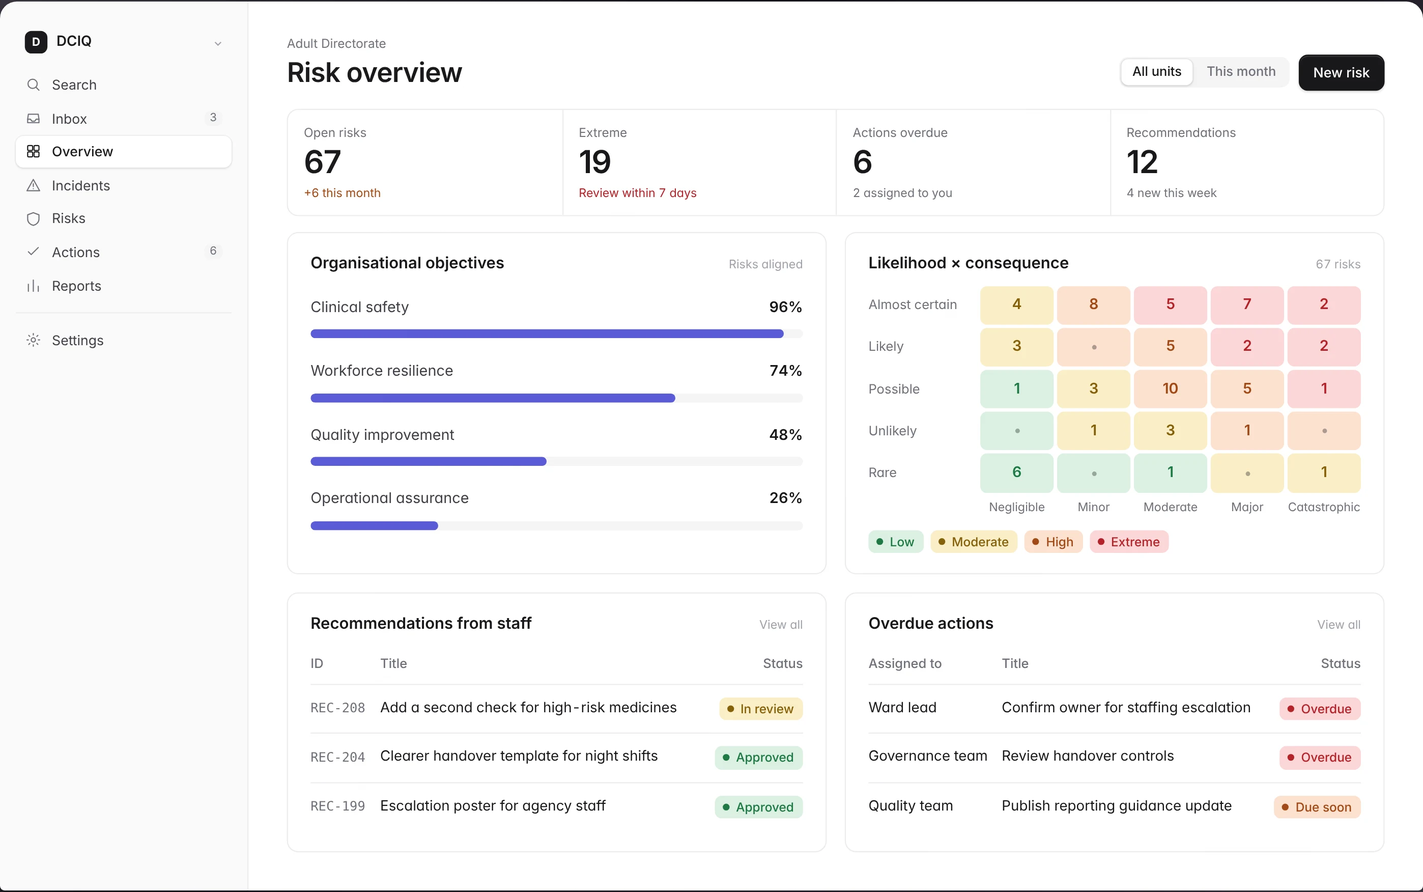
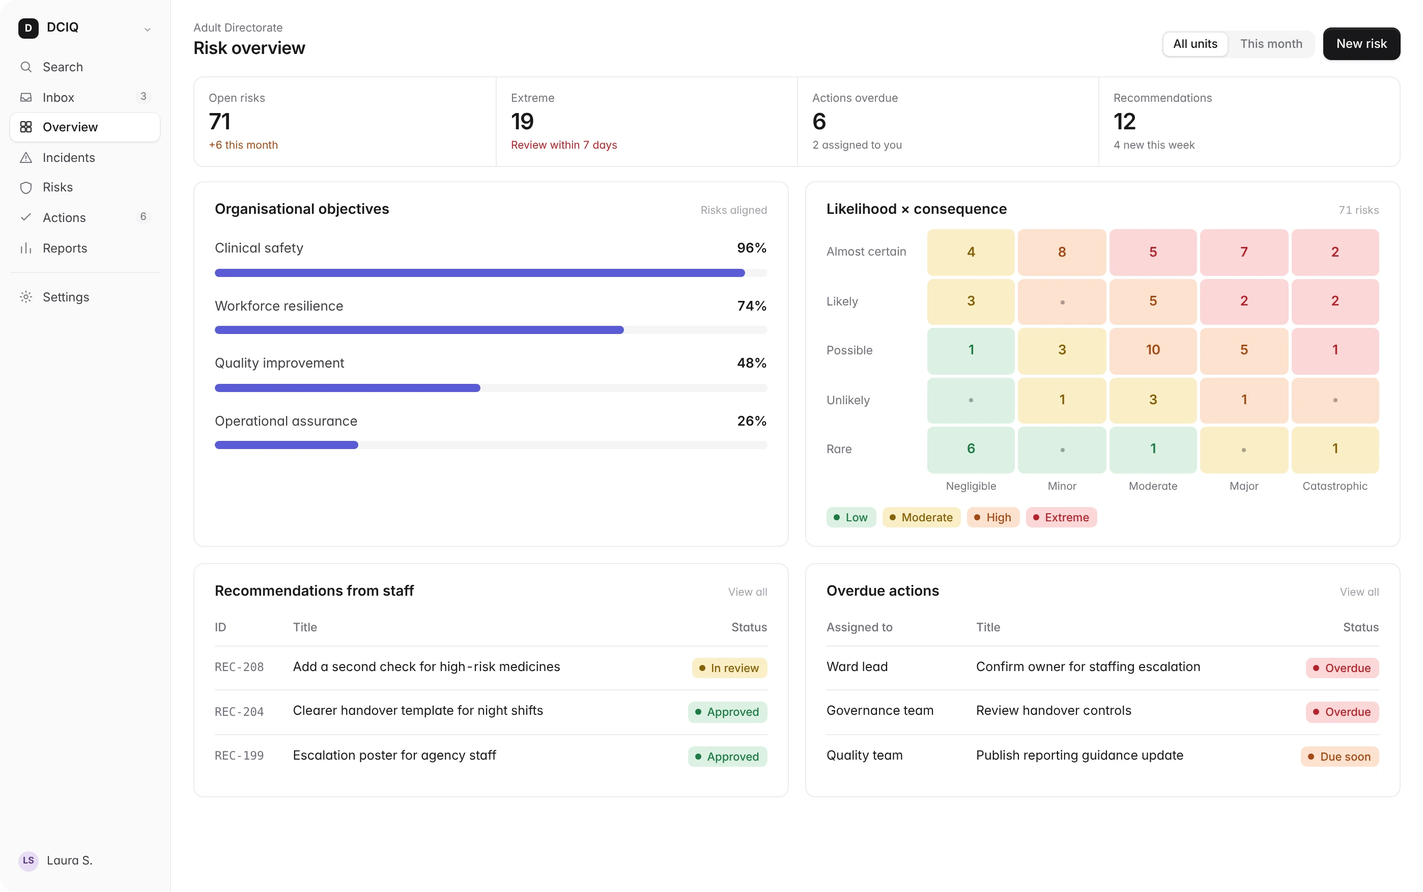
RLDatix: one data set for every risk overview (71 risks, 19 extreme)
Claude-Session: https://claude.ai/code/session_019ui8k7Dsyc7QBDNyg3Qkj1

diff --git a/case-study-rldatix.html b/case-study-rldatix.html
@@ -293,13 +293,13 @@
 <link rel="shortcut icon" href="favicon.ico?v=flower-2">
 <link rel="icon" type="image/svg+xml" href="favicon.svg?v=flower-2">
 
-<link rel="stylesheet" href="headings.css?v=4"><link rel="stylesheet" href="case-layout.css?v=2"><link rel="stylesheet" href="rldatix-studio.css?v=7"><link rel="stylesheet" href="rldatix-system.css?v=18"><link rel="stylesheet" href="case-format.css?v=4"><script src="i18n.js?v=3"></script></head><body class="flex-case" id="top"><a class="skip-link" href="#impact">Skip to case study</a><div class="cursor" aria-hidden="true"></div><div class="cursor-dot" aria-hidden="true"></div><div class="progress" aria-hidden="true"><div class="progress-bar" id="progressBar"></div></div>
+<link rel="stylesheet" href="headings.css?v=4"><link rel="stylesheet" href="case-layout.css?v=2"><link rel="stylesheet" href="rldatix-studio.css?v=7"><link rel="stylesheet" href="rldatix-system.css?v=19"><link rel="stylesheet" href="case-format.css?v=4"><script src="i18n.js?v=3"></script></head><body class="flex-case" id="top"><a class="skip-link" href="#impact">Skip to case study</a><div class="cursor" aria-hidden="true"></div><div class="cursor-dot" aria-hidden="true"></div><div class="progress" aria-hidden="true"><div class="progress-bar" id="progressBar"></div></div>
 <div class="page case-page"><nav class="nav" aria-label="Main navigation"><a class="nav-back" href="index.html"><span aria-hidden="true">←</span> Go back</a><ul class="nav-links"><li><a href="index.html#contact">Contact</a></li></ul></nav>
 
 <main>
 <section class="fx-hero fx-dark rld-hero" id="overview" aria-labelledby="rld-title">
 <div class="fx-hero-copy"><span class="mono-label">RLDatix · 2020–2021</span><h1 id="rld-title">From a patchwork to <em>one product.</em></h1><p>During COVID-19, I led research and design to turn a patchwork of hospital risk tools into one system.</p></div>
-<div class="rld-hero-windows" aria-hidden="true"><img class="rld-win" src="assets/rldatix/risk-overview.webp" alt="" width="2796" height="1752"></div>
+<div class="rld-hero-windows" aria-hidden="true"><img class="rld-win" src="assets/rldatix/risk-overview.webp?v=2" alt="" width="2796" height="1752"></div>
 </section>
 
 <section class="fx-facts" aria-label="Project summary"><dl>
@@ -319,10 +319,10 @@
 <section class="cx-full rld-compare-section" id="v3-section-0" aria-labelledby="compare-title"><span class="mono-label fx-kicker">Before and after</span><h2 id="compare-title">Same platform. One way of working.</h2>
 <figure class="rld-laptop rld-compare-laptop rs-surface rs-linen" data-comparison><div class="rld-laptop-hardware"><div class="rld-laptop-shell"><div class="rld-compare-scroll" tabindex="0" role="region" aria-label="Explore a legacy risk register and my redesigned risk dashboard. Scroll vertically to view both screens."><div class="rld-compare" data-compare-screen style="--split:50%"><div class="rs hd-wrap" data-no-i18n aria-hidden="true"><div class="hd rs-app"><aside class="rs-side" data-rs-side="Overview"></aside><div class="rs-main">
 <div class="rs-main-top"><div><span class="rs-crumb">Adult Directorate</span><h4>Risk overview</h4></div><div class="rs-top-actions"><span class="rs-seg"><b>All units</b><span>This month</span></span><span class="rs-btn">New risk</span></div></div>
-<div class="rs-kpis"><div><small>Open risks</small><strong>67</strong><em class="up">+6 this month</em></div><div><small>Extreme</small><strong>19</strong><em class="down">Review within 7 days</em></div><div><small>Actions overdue</small><strong>6</strong><em>2 assigned to you</em></div><div><small>Recommendations</small><strong>12</strong><em>4 new this week</em></div></div>
+<div class="rs-kpis"><div><small>Open risks</small><strong>71</strong><em class="up">+6 this month</em></div><div><small>Extreme</small><strong>19</strong><em class="down">Review within 7 days</em></div><div><small>Actions overdue</small><strong>6</strong><em>2 assigned to you</em></div><div><small>Recommendations</small><strong>12</strong><em>4 new this week</em></div></div>
 <div class="hd-grid">
 <section class="rs-pane"><header><strong>Organisational objectives</strong><small>Risks aligned</small></header><div class="hd-obj"><div><span>Clinical safety</span><b>96%</b></div><span class="rs-bar"><i style="width:96%"></i></span></div><div class="hd-obj"><div><span>Workforce resilience</span><b>74%</b></div><span class="rs-bar"><i style="width:74%"></i></span></div><div class="hd-obj"><div><span>Quality improvement</span><b>48%</b></div><span class="rs-bar"><i style="width:48%"></i></span></div><div class="hd-obj"><div><span>Operational assurance</span><b>26%</b></div><span class="rs-bar"><i style="width:26%"></i></span></div></section>
-<section class="rs-pane"><header><strong>Likelihood × consequence</strong><small>67 risks</small></header><div class="rs-matrix"><span class="ax">Almost certain</span><span class="rs-cell" data-band="mod" data-count="4">4</span><span class="rs-cell" data-band="high" data-count="8">8</span><span class="rs-cell" data-band="ext" data-count="5">5</span><span class="rs-cell" data-band="ext" data-count="7">7</span><span class="rs-cell" data-band="ext" data-count="2">2</span><span class="ax">Likely</span><span class="rs-cell" data-band="mod" data-count="3">3</span><span class="rs-cell" data-band="high" data-count="0">0</span><span class="rs-cell" data-band="high" data-count="5">5</span><span class="rs-cell" data-band="ext" data-count="2">2</span><span class="rs-cell" data-band="ext" data-count="2">2</span><span class="ax">Possible</span><span class="rs-cell" data-band="low" data-count="1">1</span><span class="rs-cell" data-band="mod" data-count="3">3</span><span class="rs-cell" data-band="high" data-count="10">10</span><span class="rs-cell" data-band="high" data-count="5">5</span><span class="rs-cell" data-band="ext" data-count="1">1</span><span class="ax">Unlikely</span><span class="rs-cell" data-band="low" data-count="0">0</span><span class="rs-cell" data-band="mod" data-count="1">1</span><span class="rs-cell" data-band="mod" data-count="3">3</span><span class="rs-cell" data-band="high" data-count="1">1</span><span class="rs-cell" data-band="high" data-count="0">0</span><span class="ax">Rare</span><span class="rs-cell" data-band="low" data-count="6">6</span><span class="rs-cell" data-band="low" data-count="0">0</span><span class="rs-cell" data-band="low" data-count="1">1</span><span class="rs-cell" data-band="mod" data-count="0">0</span><span class="rs-cell" data-band="mod" data-count="1">1</span><span></span><span class="ax col">Negligible</span><span class="ax col">Minor</span><span class="ax col">Moderate</span><span class="ax col">Major</span><span class="ax col">Catastrophic</span></div><div class="hd-legend"><span class="rs-chip low">Low</span><span class="rs-chip mod">Moderate</span><span class="rs-chip high">High</span><span class="rs-chip ext">Extreme</span></div></section>
+<section class="rs-pane"><header><strong>Likelihood × consequence</strong><small>71 risks</small></header><div class="rs-matrix"><span class="ax">Almost certain</span><span class="rs-cell" data-band="mod" data-count="4">4</span><span class="rs-cell" data-band="high" data-count="8">8</span><span class="rs-cell" data-band="ext" data-count="5">5</span><span class="rs-cell" data-band="ext" data-count="7">7</span><span class="rs-cell" data-band="ext" data-count="2">2</span><span class="ax">Likely</span><span class="rs-cell" data-band="mod" data-count="3">3</span><span class="rs-cell" data-band="high" data-count="0">0</span><span class="rs-cell" data-band="high" data-count="5">5</span><span class="rs-cell" data-band="ext" data-count="2">2</span><span class="rs-cell" data-band="ext" data-count="2">2</span><span class="ax">Possible</span><span class="rs-cell" data-band="low" data-count="1">1</span><span class="rs-cell" data-band="mod" data-count="3">3</span><span class="rs-cell" data-band="high" data-count="10">10</span><span class="rs-cell" data-band="high" data-count="5">5</span><span class="rs-cell" data-band="ext" data-count="1">1</span><span class="ax">Unlikely</span><span class="rs-cell" data-band="low" data-count="0">0</span><span class="rs-cell" data-band="mod" data-count="1">1</span><span class="rs-cell" data-band="mod" data-count="3">3</span><span class="rs-cell" data-band="high" data-count="1">1</span><span class="rs-cell" data-band="high" data-count="0">0</span><span class="ax">Rare</span><span class="rs-cell" data-band="low" data-count="6">6</span><span class="rs-cell" data-band="low" data-count="0">0</span><span class="rs-cell" data-band="low" data-count="1">1</span><span class="rs-cell" data-band="mod" data-count="0">0</span><span class="rs-cell" data-band="mod" data-count="1">1</span><span></span><span class="ax col">Negligible</span><span class="ax col">Minor</span><span class="ax col">Moderate</span><span class="ax col">Major</span><span class="ax col">Catastrophic</span></div><div class="hd-legend"><span class="rs-chip low">Low</span><span class="rs-chip mod">Moderate</span><span class="rs-chip high">High</span><span class="rs-chip ext">Extreme</span></div></section>
 <section class="rs-pane"><header><strong>Recommendations from staff</strong><small>View all</small></header><table class="hd-table"><thead><tr><th>ID</th><th>Title</th><th>Status</th></tr></thead><tbody><tr><td class=mono>REC-208</td><td>Add a second check for high-risk medicines</td><td><span class="rs-chip mod">In review</span></td></tr><tr><td class=mono>REC-204</td><td>Clearer handover template for night shifts</td><td><span class="rs-chip low">Approved</span></td></tr><tr><td class=mono>REC-199</td><td>Escalation poster for agency staff</td><td><span class="rs-chip low">Approved</span></td></tr></tbody></table></section>
 <section class="rs-pane"><header><strong>Overdue actions</strong><small>View all</small></header><table class="hd-table"><thead><tr><th>Assigned to</th><th>Title</th><th>Status</th></tr></thead><tbody><tr><td>Ward lead</td><td>Confirm owner for staffing escalation</td><td><span class="rs-chip ext">Overdue</span></td></tr><tr><td>Governance team</td><td>Review handover controls</td><td><span class="rs-chip ext">Overdue</span></td></tr><tr><td>Quality team</td><td>Publish reporting guidance update</td><td><span class="rs-chip high">Due soon</span></td></tr></tbody></table></section>
 </div></div></div></div><div class="rld-compare-old"><img class="rld-compare-image" src="assets/rldatix/legacy-laptop-outlined.svg" alt="Legacy DCIQ risk register shown for context" width="614" height="518" loading="lazy" draggable="false"></div><span class="rld-compare-divider" aria-hidden="true"><span>↔</span></span><input class="rld-compare-range" data-compare-range type="range" min="0" max="100" value="50" aria-label="Explore the legacy risk register and the redesigned dashboard" aria-valuetext="Showing both screens"></div></div></div><div class="rld-laptop-hinge" aria-hidden="true"></div><div class="rld-laptop-deck" aria-hidden="true"><div class="rld-laptop-deck-plane"><div class="rld-speaker rld-speaker-left"></div><div class="rld-keyboard"><div class="rld-key-row"><span class="rld-key is-wide"></span><span class="rld-key"></span><span class="rld-key"></span><span class="rld-key"></span><span class="rld-key"></span><span class="rld-key"></span><span class="rld-key"></span><span class="rld-key"></span><span class="rld-key"></span><span class="rld-key"></span><span class="rld-key"></span><span class="rld-key"></span><span class="rld-key"></span><span class="rld-key is-wide"></span></div><div class="rld-key-row"><span class="rld-key is-wide"></span><span class="rld-key"></span><span class="rld-key"></span><span class="rld-key"></span><span class="rld-key"></span><span class="rld-key"></span><span class="rld-key"></span><span class="rld-key"></span><span class="rld-key"></span><span class="rld-key"></span><span class="rld-key"></span><span class="rld-key"></span><span class="rld-key"></span><span class="rld-key is-wide"></span></div><div class="rld-key-row"><span class="rld-key is-wide"></span><span class="rld-key"></span><span class="rld-key"></span><span class="rld-key"></span><span class="rld-key"></span><span class="rld-key"></span><span class="rld-key"></span><span class="rld-key"></span><span class="rld-key"></span><span class="rld-key"></span><span class="rld-key"></span><span class="rld-key"></span><span class="rld-key"></span><span class="rld-key is-wide"></span></div><div class="rld-key-row"><span class="rld-key is-wide"></span><span class="rld-key"></span><span class="rld-key"></span><span class="rld-key"></span><span class="rld-key"></span><span class="rld-key"></span><span class="rld-key"></span><span class="rld-key"></span><span class="rld-key"></span><span class="rld-key"></span><span class="rld-key"></span><span class="rld-key"></span><span class="rld-key"></span><span class="rld-key is-wide"></span></div><div class="rld-key-row"><span class="rld-key is-wide"></span><span class="rld-key"></span><span class="rld-key"></span><span class="rld-key is-space"></span><span class="rld-key"></span><span class="rld-key"></span><span class="rld-key"></span><span class="rld-key is-wide"></span></div></div><div class="rld-speaker rld-speaker-right"></div><div class="rld-trackpad"></div></div></div><div class="rld-laptop-base" aria-hidden="true"></div></div>
@@ -418,7 +418,7 @@
 <p class="st-result"><b>What changed</b>Saving behaved the same on every screen, so staff knew when their work was safe.</p>
 </section>
 <section class="cx-full rld-workflow-story" id="v3-section-2"><span class="mono-label">02 / OVERVIEWS</span><h2>Help people see what needs attention</h2>
-<p>Teams needed a quick view of what needed attention, and the detail behind it. So we paired a risk overview with detailed lists.</p><figure class="ov-stage rs-surface rs-sage"><div class="ov-frame"><img src="assets/rldatix/risk-overview.webp" alt="Redesigned risk overview: key numbers, objectives, a likelihood by consequence matrix, staff recommendations and overdue actions" width="2796" height="1752" loading="lazy"><span class="ov-pin" style="left:60.4%;top:27.6%">01</span><span class="ov-pin" style="left:60.4%;top:67.8%">02</span><span class="ov-pin" style="left:21%;top:67.8%">03</span></div><figcaption>The redesigned risk overview, recreated for this case study with sample data. Numbers match the three ideas below.</figcaption></figure>
+<p>Teams needed a quick view of what needed attention, and the detail behind it. So we paired a risk overview with detailed lists.</p><figure class="ov-stage rs-surface rs-sage"><div class="ov-frame"><img src="assets/rldatix/risk-overview.webp?v=2" alt="Redesigned risk overview: key numbers, objectives, a likelihood by consequence matrix, staff recommendations and overdue actions" width="2796" height="1752" loading="lazy"><span class="ov-pin" style="left:56.7%;top:20.6%">01</span><span class="ov-pin" style="left:56.7%;top:63.3%">02</span><span class="ov-pin" style="left:13.6%;top:63.3%">03</span></div><figcaption>The redesigned risk overview, recreated for this case study with sample data. Numbers match the three ideas below.</figcaption></figure>
 <div class="rld-decision-grid"><article><span>01</span><h3>Start with the overview</h3><p>The matrix groups risks by likelihood and impact, so teams can scan the overall picture.</p></article><article><span>02</span><h3>Show the next action</h3><p>Owners, status and overdue actions show who needs to follow up.</p></article><article><span>03</span><h3>Keep the detail</h3><p>Detailed tables remain available for reviewing each risk and its next action.</p></article></div>
 
 
@@ -470,10 +470,10 @@
 <div class="rs-main">
 <div class="rs-main-top"><div><span class="rs-crumb">Adult Directorate</span><h4>Risk overview</h4></div><div class="rs-top-actions"><span class="rs-seg"><b>All units</b><span>This month</span></span><button type="button" class="rs-btn">New risk</button></div></div>
 <div class="rs-kpis">
-<div><small>Open risks</small><strong>18</strong><em class="up">+3 this month</em></div>
-<div><small>Extreme</small><strong>4</strong><em class="down">Review within 7 days</em></div>
+<div><small>Open risks</small><strong>71</strong><em class="up">+6 this month</em></div>
+<div><small>Extreme</small><strong>19</strong><em class="down">Review within 7 days</em></div>
 <div><small>Actions overdue</small><strong>6</strong><em>2 assigned to you</em></div>
-<div><small>Controls in place</small><strong>71%</strong><span class="rs-bar"><i style="width:71%"></i></span></div>
+<div><small>Recommendations</small><strong>12</strong><em>4 new this week</em></div>
 </div>
 <div class="rs-overview-grid">
 <section class="rs-pane">
@@ -611,7 +611,7 @@
 </ol>
 <p class="fx-line">What I learned: one product isn’t a fresh coat of paint. It’s components that behave the same everywhere, setup that works for each hospital, and words clinicians already use.</p></section>
 
-</main><dialog class="rld-report-dialog" id="rld-report-dialog" aria-labelledby="rld-report-dialog-title"><div class="rld-report-dialog-inner"><button class="rld-report-dialog-close" type="button" aria-label="Close report form">×</button><span class="mono-label">NEW INCIDENT REPORT</span><h2 id="rld-report-dialog-title">Start a report</h2><p class="rld-report-dialog-intro">Add a few details so the right team can follow up.</p><div class="rld-dialog-category"><span class="rld-dialog-category-icon" id="rld-dialog-category-icon" aria-hidden="true"></span><div><small>EVENT TYPE</small><strong id="rld-dialog-category">Incident</strong></div></div><label class="rld-dialog-field">What happened?<textarea rows="3" placeholder="Briefly describe the event"></textarea></label><label class="rld-dialog-field">Where did it happen?<select><option value="">Choose a location</option><option>Ward 3</option><option>Emergency department</option><option>Other</option></select></label><div class="rld-dialog-actions"><button class="rld-dialog-cancel" type="button">Cancel</button><button class="rld-dialog-continue" type="button">Continue</button></div></div></dialog><footer class="footer" id="contact"><div class="footer-inner"><h2 class="footer-title">Let’s make products feel clear and useful.</h2><div class="footer-actions"><a class="pill-button" href="mailto:lrsmpdr@gmail.com" target="_blank" rel="noopener noreferrer">Email me ↗</a><a href="https://www.linkedin.com/in/laura-sampedro/" target="_blank" rel="noopener noreferrer">LinkedIn ↗</a></div><div class="footer-row"><span class="mono-label">© 2026 Laura Sampedro de la Rosa</span><a class="mono-label" href="#top">Back to top ↑</a></div></div></footer></div><script>if(I18n.lang==="es")document.write('<script src="i18n-es.js?v=29"><\/script>')</script><script>I18n.run()</script><script src="script.js"></script><script src="case-study.js"></script><dialog class="fv-lightbox" aria-label="Product screen detail"><button class="fv-close" type="button" aria-label="Close enlarged screen">Close ×</button><img alt=""></dialog><script src="case-media.js?v=2"></script><script src="case-experience.js?v=1"></script><script src="rldatix-laptop.js?v=3"></script><script src="rldatix-showcase.js?v=1"></script><script src="rldatix-studio.js?v=5"></script><script src="rldatix-experts.js?v=1"></script><script>
+</main><dialog class="rld-report-dialog" id="rld-report-dialog" aria-labelledby="rld-report-dialog-title"><div class="rld-report-dialog-inner"><button class="rld-report-dialog-close" type="button" aria-label="Close report form">×</button><span class="mono-label">NEW INCIDENT REPORT</span><h2 id="rld-report-dialog-title">Start a report</h2><p class="rld-report-dialog-intro">Add a few details so the right team can follow up.</p><div class="rld-dialog-category"><span class="rld-dialog-category-icon" id="rld-dialog-category-icon" aria-hidden="true"></span><div><small>EVENT TYPE</small><strong id="rld-dialog-category">Incident</strong></div></div><label class="rld-dialog-field">What happened?<textarea rows="3" placeholder="Briefly describe the event"></textarea></label><label class="rld-dialog-field">Where did it happen?<select><option value="">Choose a location</option><option>Ward 3</option><option>Emergency department</option><option>Other</option></select></label><div class="rld-dialog-actions"><button class="rld-dialog-cancel" type="button">Cancel</button><button class="rld-dialog-continue" type="button">Continue</button></div></div></dialog><footer class="footer" id="contact"><div class="footer-inner"><h2 class="footer-title">Let’s make products feel clear and useful.</h2><div class="footer-actions"><a class="pill-button" href="mailto:lrsmpdr@gmail.com" target="_blank" rel="noopener noreferrer">Email me ↗</a><a href="https://www.linkedin.com/in/laura-sampedro/" target="_blank" rel="noopener noreferrer">LinkedIn ↗</a></div><div class="footer-row"><span class="mono-label">© 2026 Laura Sampedro de la Rosa</span><a class="mono-label" href="#top">Back to top ↑</a></div></div></footer></div><script>if(I18n.lang==="es")document.write('<script src="i18n-es.js?v=29"><\/script>')</script><script>I18n.run()</script><script src="script.js"></script><script src="case-study.js"></script><dialog class="fv-lightbox" aria-label="Product screen detail"><button class="fv-close" type="button" aria-label="Close enlarged screen">Close ×</button><img alt=""></dialog><script src="case-media.js?v=2"></script><script src="case-experience.js?v=1"></script><script src="rldatix-laptop.js?v=3"></script><script src="rldatix-showcase.js?v=1"></script><script src="rldatix-studio.js?v=6"></script><script src="rldatix-experts.js?v=1"></script><script>
 (()=>{const dialog=document.getElementById("rld-report-dialog");if(!dialog)return;const category=document.getElementById("rld-dialog-category");const categoryIcon=document.getElementById("rld-dialog-category-icon");const detail=document.getElementById("rld-report-details");let selected="Incident";
 document.querySelectorAll(".rld-icon-launch").forEach(button=>button.addEventListener("click",()=>{selected=button.dataset.reportCategory||"Incident";category.textContent=selected;const icon=button.querySelector(".rld-icon-launch-art svg");if(icon&&categoryIcon)categoryIcon.replaceChildren(icon.cloneNode(true));dialog.showModal()}));
 dialog.querySelector(".rld-report-dialog-close").addEventListener("click",()=>dialog.close());

diff --git a/rldatix-studio.js b/rldatix-studio.js
@@ -36,17 +36,32 @@
   const BAND_NAME = { low: 'Low', mod: 'Moderate', high: 'High', ext: 'Extreme' };
 
   /* ---------- 1. Matrix ---------- */
-  const RISKS = [
-    ['Staffing escalation out of hours', 'Ward lead', 5, 4], ['Sepsis screening missed', 'Critical care', 4, 5],
-    ['Medication dose transcription', 'Pharmacy', 4, 4], ['Clinical handover between shifts', 'Governance team', 4, 3],
-    ['Delayed discharge letters', 'Quality team', 4, 2], ['Falls on Ward 3 at night', 'Ward lead', 3, 4],
-    ['PPE supply for isolation bays', 'Estates', 3, 4], ['Equipment checks overdue', 'Estates', 3, 3],
-    ['Bed capacity in ED', 'Emergency dept', 5, 3], ['Patient ID wristbands', 'Nursing', 2, 4],
-    ['Pressure ulcer assessments', 'Tissue viability', 3, 3], ['Visitor guidance unclear', 'Comms', 3, 1],
-    ['Lab results not acknowledged', 'Pathology', 2, 5], ['Fire door wedged open', 'Estates', 2, 3],
-    ['Training records incomplete', 'Education', 2, 2], ['Parking signage', 'Facilities', 1, 1],
-    ['Interpreter booking delays', 'Patient experience', 3, 2], ['Agency staff induction', 'Workforce', 4, 3]
-  ].map(([title, owner, l, c]) => ({ title, owner, l, c, s: l * c }));
+  // Same sample data as the risk overview in 02 / Overviews: 67 risks, 19 extreme.
+  const MATRIX = [[4, 8, 5, 7, 2], [3, 0, 5, 2, 2], [1, 3, 10, 5, 1], [0, 1, 3, 1, 0], [6, 0, 1, 0, 1]]; // rows: Almost certain → Rare
+  const NAMED = {
+    '5,5': [['Sepsis screening missed in ED', 'Critical care'], ['Staffing escalation out of hours', 'Ward lead']],
+    '5,4': [['Medication dose transcription', 'Pharmacy'], ['Bed capacity in ED', 'Emergency dept'], ['Lab results not acknowledged', 'Pathology']],
+    '5,3': [['Agency staff induction', 'Workforce']],
+    '4,5': [['Delayed escalation of deteriorating patients', 'Critical care']],
+    '4,4': [['Falls on Ward 3 at night', 'Ward lead']],
+    '4,3': [['Clinical handover between shifts', 'Governance team'], ['PPE supply for isolation bays', 'Estates']],
+    '3,3': [['Equipment checks overdue', 'Estates'], ['Pressure ulcer assessments', 'Tissue viability']],
+    '3,2': [['Interpreter booking delays', 'Patient experience']],
+    '1,1': [['Parking signage', 'Facilities']]
+  };
+  const TOPICS = ['Discharge letters delayed', 'Training records incomplete', 'Fire door checks', 'Patient ID wristbands', 'Visitor guidance unclear', 'Theatre list overruns', 'Consent forms incomplete', 'Infusion pump servicing', 'Night staffing ratios', 'Referral backlog', 'Hand hygiene audits', 'Allergy status missing'];
+  const UNITS = ['Ward 1', 'Ward 2', 'Ward 4', 'Maternity', 'Outpatients', 'Theatres'];
+  const OWNERS = ['Ward lead', 'Quality team', 'Governance team', 'Estates', 'Nursing', 'Workforce'];
+  let n = 0;
+  const RISKS = [];
+  MATRIX.forEach((row, i) => row.forEach((count, j) => {
+    const l = 5 - i, c = j + 1, named = NAMED[`${l},${c}`] || [];
+    for (let k = 0; k < count; k++) {
+      const [title, owner] = named[k] || [`${TOPICS[n % TOPICS.length]}, ${UNITS[n % UNITS.length]}`, OWNERS[n % OWNERS.length]];
+      if (!named[k]) n++;
+      RISKS.push({ title, owner, l, c, s: l * c });
+    }
+  }));
 
   const matrix = $('[data-rs-matrix]');
   if (matrix) {

diff --git a/rldatix-system.css b/rldatix-system.css
@@ -348,3 +348,4 @@ body.flex-case .rld-report-dialog{overflow:hidden!important}
 .ov-pin{position:absolute;transform:translate(-120%,-50%);display:grid;place-items:center;width:30px;height:30px;border-radius:50%;background:#29242f;color:#fff;font:400 11px/1 var(--font-mono);box-shadow:0 0 0 4px #ffffffcc,0 6px 14px #18181b40}
 .ov-stage figcaption{max-width:1100px;width:100%;margin:0 auto;font-size:13.5px;color:#4d5a4a}
 @media(max-width:700px){.ov-pin{width:22px;height:22px;font-size:9px;box-shadow:0 0 0 3px #ffffffcc}}
+.ov-pin{transform:translate(-50%,-50%)!important}
